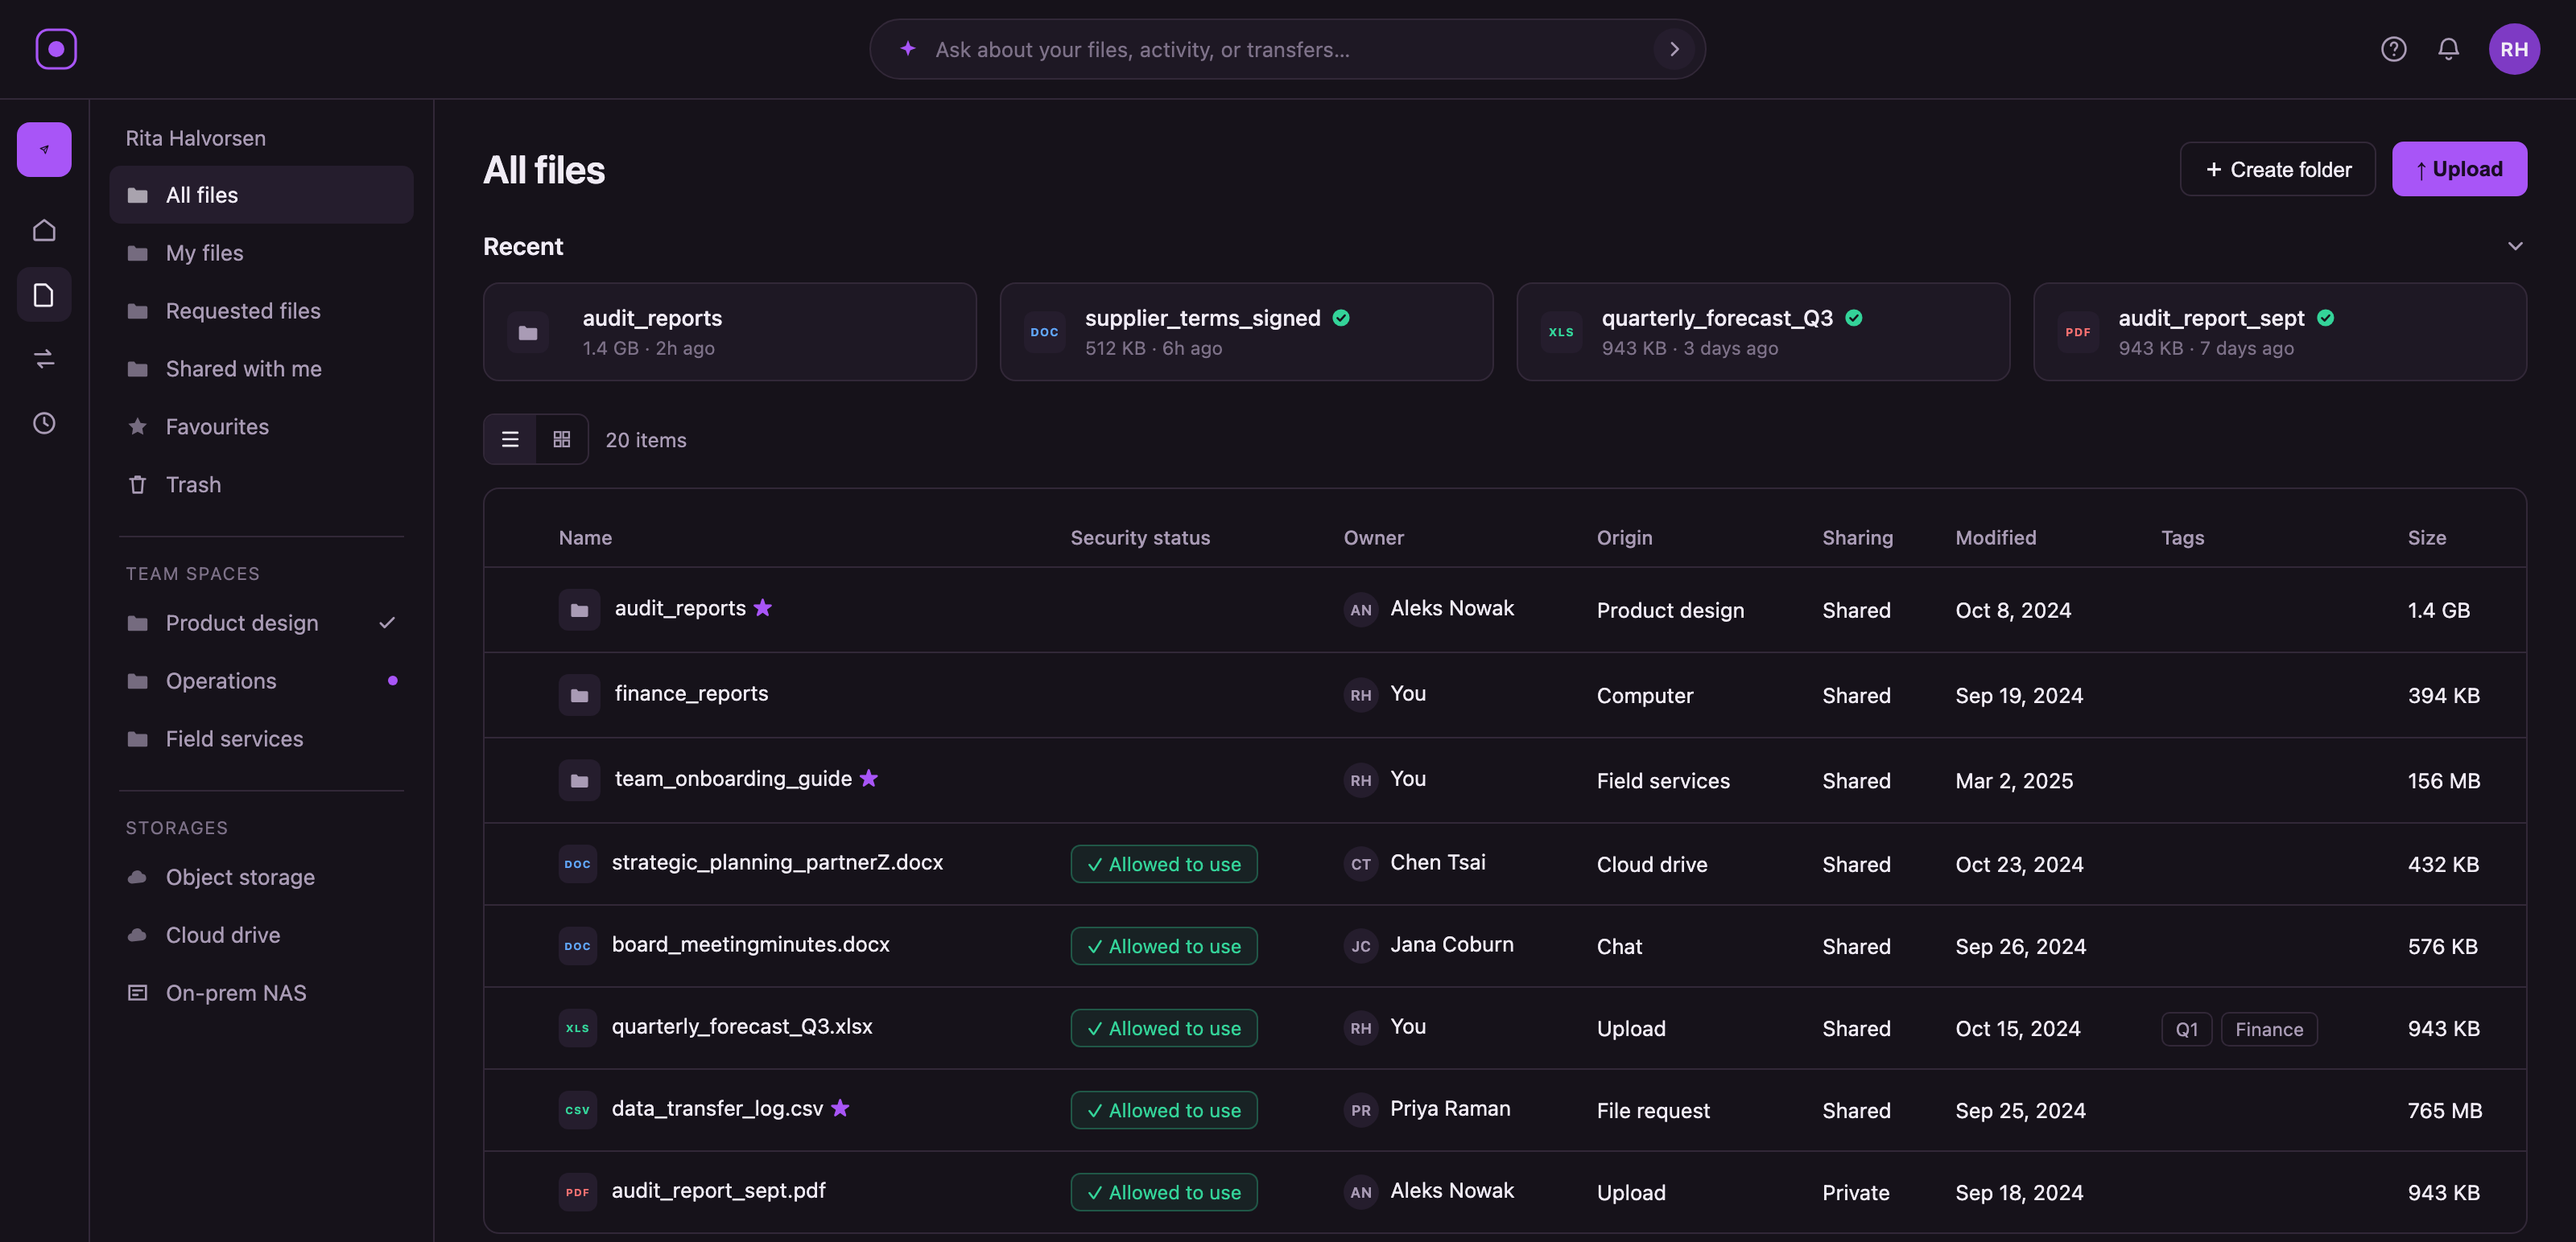
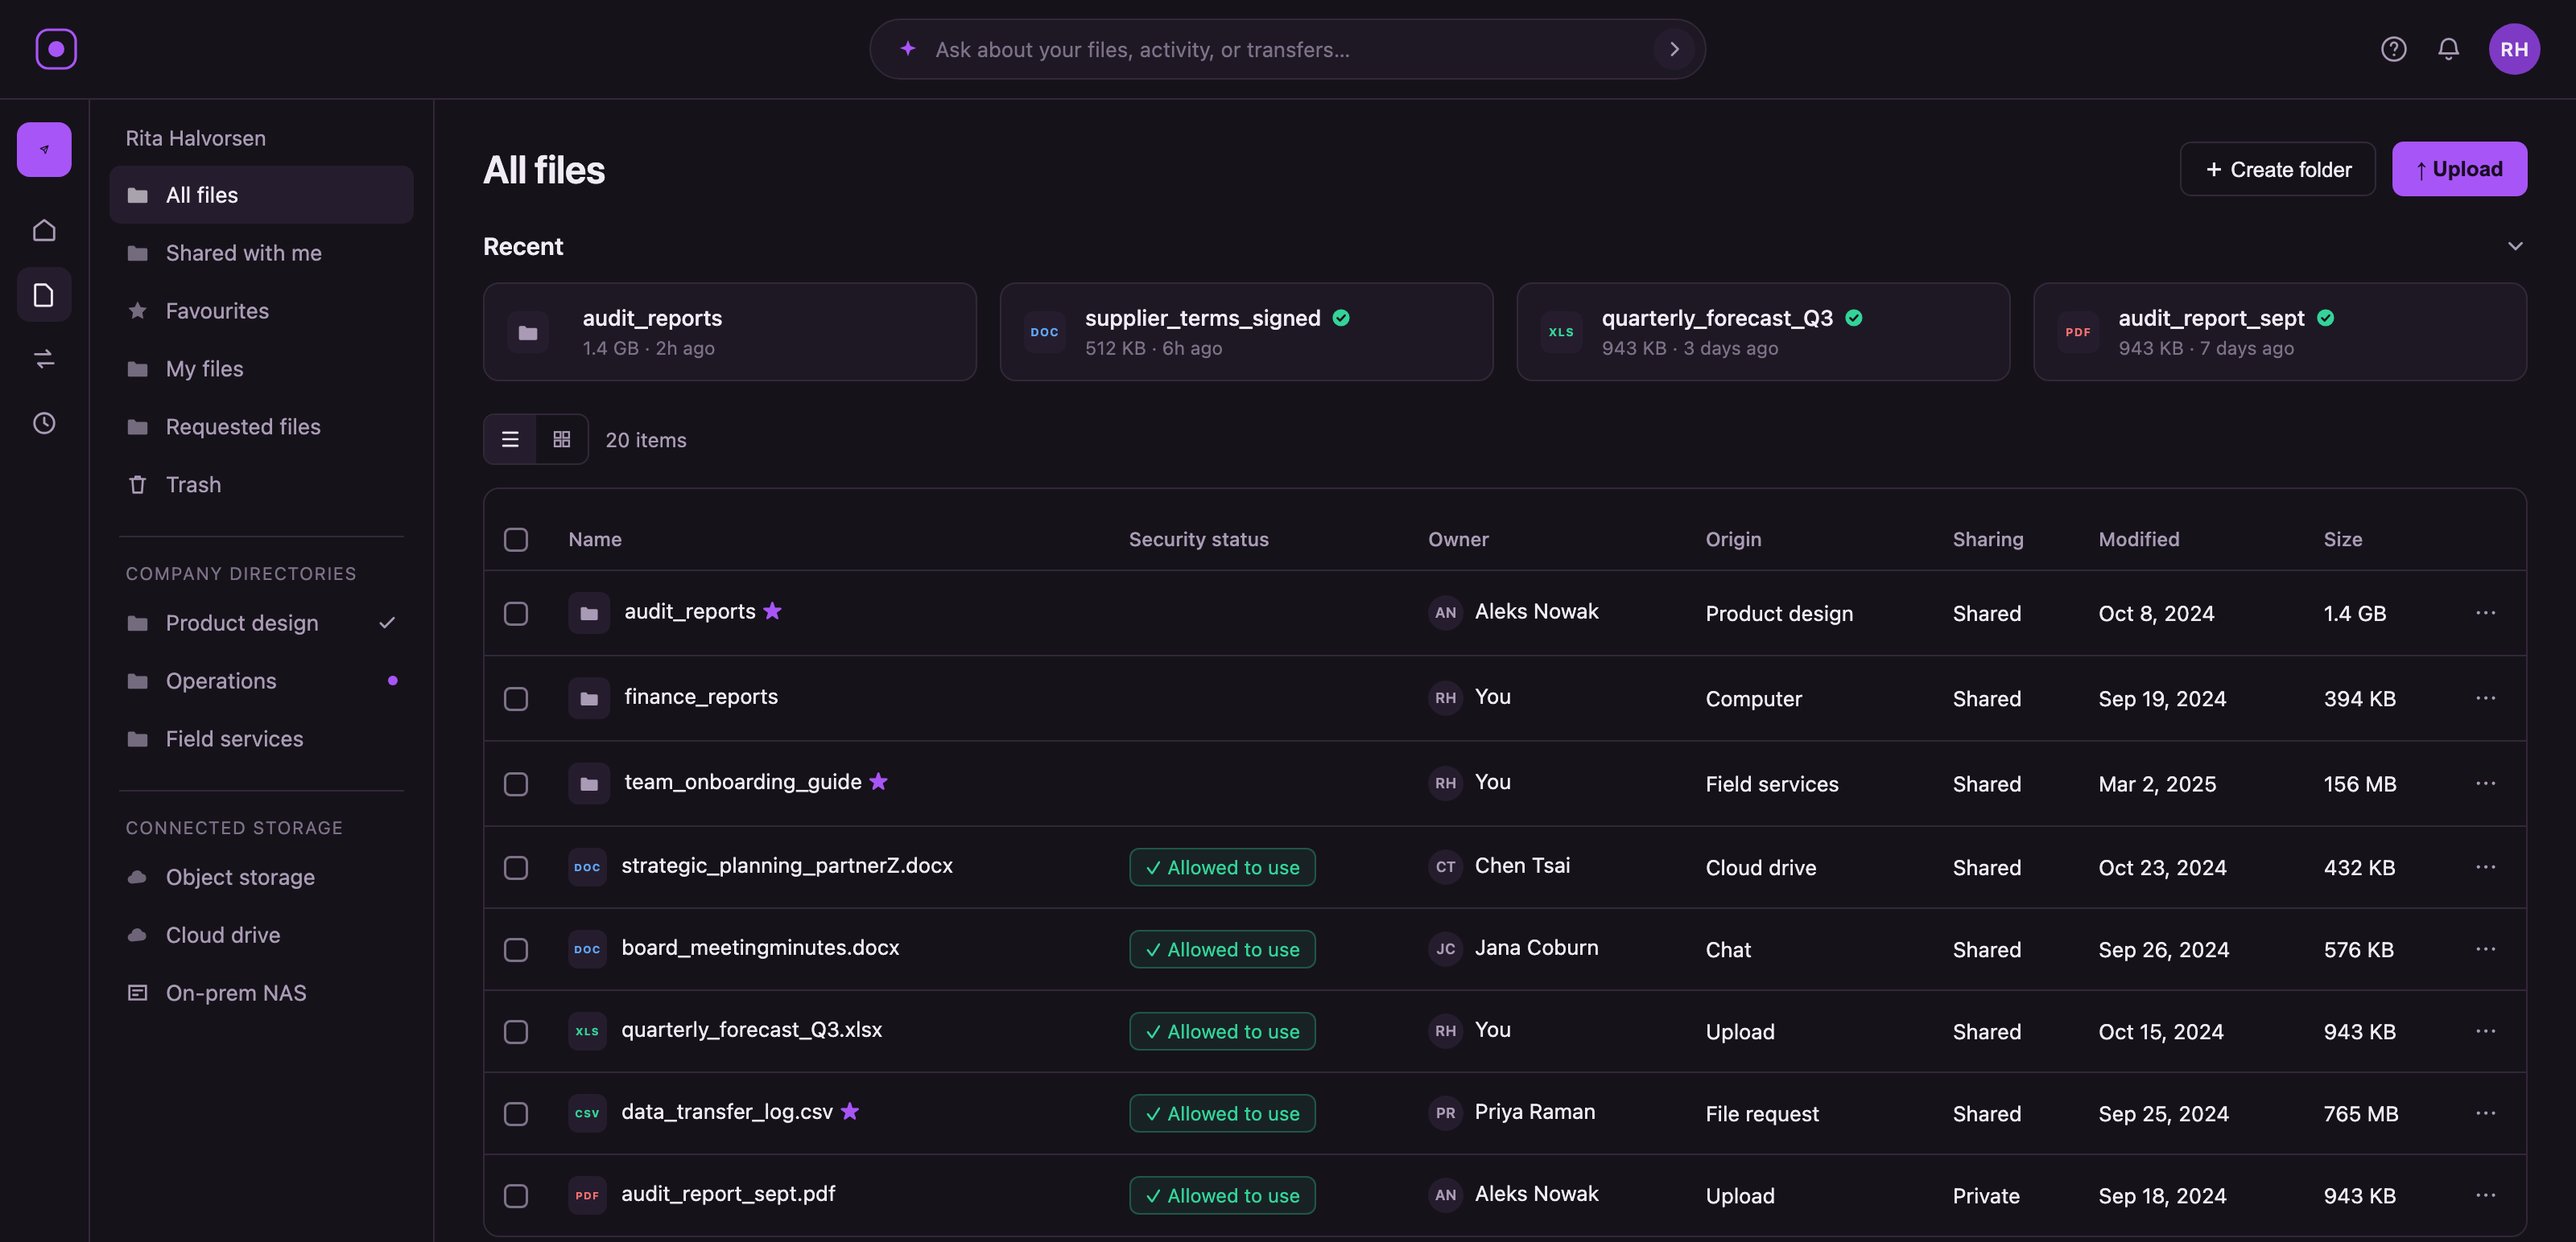
Rework the file library screen
- "Team spaces" is now "Company directories", "Storages" is
  "Connected storage"
- Reordered the personal items between All files and Trash
- Dropped the Tags column, added a leading checkbox column and a
  trailing row-actions column with an ellipsis

Checkboxes are left unchecked deliberately: the case study argues
multi-select sharing is a non-goal, so a screen showing several rows
selected would read against the copy.

diff --git a/tools/case-study-mockups/secure-file-sharing/screen-files.html b/tools/case-study-mockups/secure-file-sharing/screen-files.html
@@ -39,6 +39,10 @@
   .seg span { width: 32px; height: 30px; display: flex; align-items: center; justify-content: center; color: var(--text-dim); }
   .seg span.on { background: var(--surface-2); color: var(--text); }
   .tag { border: 1px solid var(--line); border-radius: 5px; padding: 3px 8px; font-size: 11.5px; color: var(--text-dim); margin-right: 5px; }
+  .cbox { display: inline-block; width: 15px; height: 15px; border-radius: 4px; border: 1.5px solid var(--text-mute); vertical-align: middle; }
+  .cbox.on { background: var(--primary); border-color: var(--primary); display: flex; align-items: center; justify-content: center; }
+  .ell { color: var(--text-dim); letter-spacing: 1.5px; font-size: 15px; line-height: 1; }
+  tbody tr.sel td { background: rgba(168,85,247,.07); }
 </style>
 </head>
 <body>
@@ -79,14 +83,6 @@
     </div>
     <div class="titem">
       <svg width="15" height="15" viewBox="0 0 16 16" fill="none"><path d="M1.5 4.5a1 1 0 011-1h3.2l1.3 1.5h6.5a1 1 0 011 1v6.5a1 1 0 01-1 1h-11a1 1 0 01-1-1z" fill="currentColor" opacity=".65"/></svg>
-      My files
-    </div>
-    <div class="titem">
-      <svg width="15" height="15" viewBox="0 0 16 16" fill="none"><path d="M1.5 4.5a1 1 0 011-1h3.2l1.3 1.5h6.5a1 1 0 011 1v6.5a1 1 0 01-1 1h-11a1 1 0 01-1-1z" fill="currentColor" opacity=".65"/></svg>
-      Requested files
-    </div>
-    <div class="titem">
-      <svg width="15" height="15" viewBox="0 0 16 16" fill="none"><path d="M1.5 4.5a1 1 0 011-1h3.2l1.3 1.5h6.5a1 1 0 011 1v6.5a1 1 0 01-1 1h-11a1 1 0 01-1-1z" fill="currentColor" opacity=".65"/></svg>
       Shared with me
     </div>
     <div class="titem">
@@ -94,12 +90,20 @@
       Favourites
     </div>
     <div class="titem">
+      <svg width="15" height="15" viewBox="0 0 16 16" fill="none"><path d="M1.5 4.5a1 1 0 011-1h3.2l1.3 1.5h6.5a1 1 0 011 1v6.5a1 1 0 01-1 1h-11a1 1 0 01-1-1z" fill="currentColor" opacity=".65"/></svg>
+      My files
+    </div>
+    <div class="titem">
+      <svg width="15" height="15" viewBox="0 0 16 16" fill="none"><path d="M1.5 4.5a1 1 0 011-1h3.2l1.3 1.5h6.5a1 1 0 011 1v6.5a1 1 0 01-1 1h-11a1 1 0 01-1-1z" fill="currentColor" opacity=".65"/></svg>
+      Requested files
+    </div>
+    <div class="titem">
       <svg width="15" height="15" viewBox="0 0 16 16" fill="none"><path d="M3 4.5h10M6.5 4.5V3h3v1.5M4.5 4.5l.7 9h5.6l.7-9" stroke="currentColor" stroke-width="1.4" stroke-linecap="round" stroke-linejoin="round"/></svg>
       Trash
     </div>
 
     <div class="tsplit"></div>
-    <div class="navlabel" style="padding:2px 10px 6px;">Team spaces</div>
+    <div class="navlabel" style="padding:2px 10px 6px;">Company directories</div>
     <div class="titem">
       <svg width="15" height="15" viewBox="0 0 16 16" fill="none"><path d="M1.5 4.5a1 1 0 011-1h3.2l1.3 1.5h6.5a1 1 0 011 1v6.5a1 1 0 01-1 1h-11a1 1 0 01-1-1z" fill="currentColor" opacity=".65"/></svg>
       Product design
@@ -116,7 +120,7 @@
     </div>
 
     <div class="tsplit"></div>
-    <div class="navlabel" style="padding:2px 10px 6px;">Storages</div>
+    <div class="navlabel" style="padding:2px 10px 6px;">Connected storage</div>
     <div class="titem">
       <svg width="15" height="15" viewBox="0 0 16 16" fill="none"><path d="M4.2 12.5a2.7 2.7 0 01-.2-5.4 3.6 3.6 0 016.9-1.1 2.9 2.9 0 01.6 5.7z" fill="currentColor" opacity=".6"/></svg>
       Object storage
@@ -176,105 +180,105 @@
       <table>
         <thead>
           <tr>
-            <th style="width:34px;"></th>
+            <th style="width:40px;"><span class="cbox"></span></th>
             <th>Name</th>
             <th>Security status</th>
             <th>Owner</th>
             <th>Origin</th>
             <th>Sharing</th>
             <th>Modified</th>
-            <th>Tags</th>
             <th>Size</th>
+            <th style="width:44px;"></th>
           </tr>
         </thead>
         <tbody>
           <tr>
-            <td></td>
+            <td><span class="cbox"></span></td>
             <td><span class="folder"><svg width="13" height="13" viewBox="0 0 16 16" fill="none"><path d="M1.5 4.5a1 1 0 011-1h3.2l1.3 1.5h6.5a1 1 0 011 1v6.5a1 1 0 01-1 1h-11a1 1 0 01-1-1z" fill="#a99bb5"/></svg></span>audit_reports <span class="star">★</span></td>
             <td></td>
             <td><span class="who-av">AN</span>Aleks Nowak</td>
             <td>Product design</td>
             <td>Shared</td>
             <td>Oct 8, 2024</td>
-            <td></td>
             <td>1.4 GB</td>
+            <td><span class="ell">⋯</span></td>
           </tr>
           <tr>
-            <td></td>
+            <td><span class="cbox"></span></td>
             <td><span class="folder"><svg width="13" height="13" viewBox="0 0 16 16" fill="none"><path d="M1.5 4.5a1 1 0 011-1h3.2l1.3 1.5h6.5a1 1 0 011 1v6.5a1 1 0 01-1 1h-11a1 1 0 01-1-1z" fill="#a99bb5"/></svg></span>finance_reports</td>
             <td></td>
             <td><span class="who-av">RH</span>You</td>
             <td>Computer</td>
             <td>Shared</td>
             <td>Sep 19, 2024</td>
-            <td></td>
             <td>394 KB</td>
+            <td><span class="ell">⋯</span></td>
           </tr>
           <tr>
-            <td></td>
+            <td><span class="cbox"></span></td>
             <td><span class="folder"><svg width="13" height="13" viewBox="0 0 16 16" fill="none"><path d="M1.5 4.5a1 1 0 011-1h3.2l1.3 1.5h6.5a1 1 0 011 1v6.5a1 1 0 01-1 1h-11a1 1 0 01-1-1z" fill="#a99bb5"/></svg></span>team_onboarding_guide <span class="star">★</span></td>
             <td></td>
             <td><span class="who-av">RH</span>You</td>
             <td>Field services</td>
             <td>Shared</td>
             <td>Mar 2, 2025</td>
-            <td></td>
             <td>156 MB</td>
+            <td><span class="ell">⋯</span></td>
           </tr>
           <tr>
-            <td></td>
+            <td><span class="cbox"></span></td>
             <td><span class="filetag t-docx" style="width:24px;height:24px;font-size:6.5px;display:inline-flex;margin-right:9px;vertical-align:middle;">DOC</span>strategic_planning_partnerZ.docx</td>
             <td><span class="ok">✓ Allowed to use</span></td>
             <td><span class="who-av">CT</span>Chen Tsai</td>
             <td>Cloud drive</td>
             <td>Shared</td>
             <td>Oct 23, 2024</td>
-            <td></td>
             <td>432 KB</td>
+            <td><span class="ell">⋯</span></td>
           </tr>
           <tr>
-            <td></td>
+            <td><span class="cbox"></span></td>
             <td><span class="filetag t-docx" style="width:24px;height:24px;font-size:6.5px;display:inline-flex;margin-right:9px;vertical-align:middle;">DOC</span>board_meetingminutes.docx</td>
             <td><span class="ok">✓ Allowed to use</span></td>
             <td><span class="who-av">JC</span>Jana Coburn</td>
             <td>Chat</td>
             <td>Shared</td>
             <td>Sep 26, 2024</td>
-            <td></td>
             <td>576 KB</td>
+            <td><span class="ell">⋯</span></td>
           </tr>
           <tr>
-            <td></td>
+            <td><span class="cbox"></span></td>
             <td><span class="filetag t-xlsx" style="width:24px;height:24px;font-size:6.5px;display:inline-flex;margin-right:9px;vertical-align:middle;">XLS</span>quarterly_forecast_Q3.xlsx</td>
             <td><span class="ok">✓ Allowed to use</span></td>
             <td><span class="who-av">RH</span>You</td>
             <td>Upload</td>
             <td>Shared</td>
             <td>Oct 15, 2024</td>
-            <td><span class="tag">Q1</span><span class="tag">Finance</span></td>
             <td>943 KB</td>
+            <td><span class="ell">⋯</span></td>
           </tr>
           <tr>
-            <td></td>
+            <td><span class="cbox"></span></td>
             <td><span class="filetag t-csv" style="width:24px;height:24px;font-size:6.5px;display:inline-flex;margin-right:9px;vertical-align:middle;">CSV</span>data_transfer_log.csv <span class="star">★</span></td>
             <td><span class="ok">✓ Allowed to use</span></td>
             <td><span class="who-av">PR</span>Priya Raman</td>
             <td>File request</td>
             <td>Shared</td>
             <td>Sep 25, 2024</td>
-            <td></td>
             <td>765 MB</td>
+            <td><span class="ell">⋯</span></td>
           </tr>
           <tr>
-            <td></td>
+            <td><span class="cbox"></span></td>
             <td><span class="filetag t-pdf" style="width:24px;height:24px;font-size:6.5px;display:inline-flex;margin-right:9px;vertical-align:middle;">PDF</span>audit_report_sept.pdf</td>
             <td><span class="ok">✓ Allowed to use</span></td>
             <td><span class="who-av">AN</span>Aleks Nowak</td>
             <td>Upload</td>
             <td>Private</td>
             <td>Sep 18, 2024</td>
-            <td></td>
             <td>943 KB</td>
+            <td><span class="ell">⋯</span></td>
           </tr>
         </tbody>
       </table>
